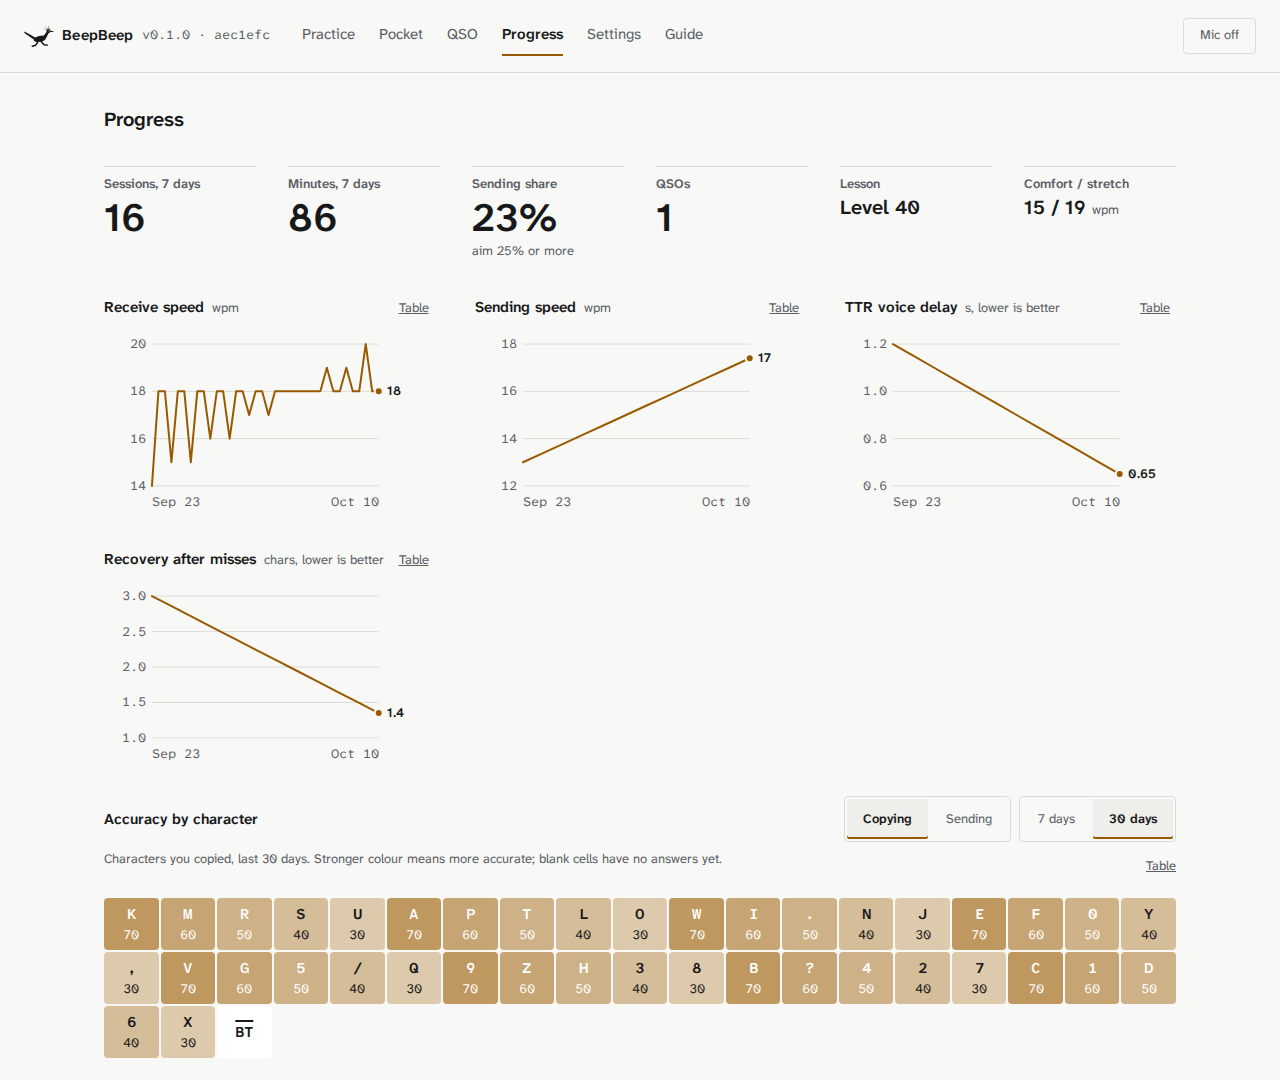
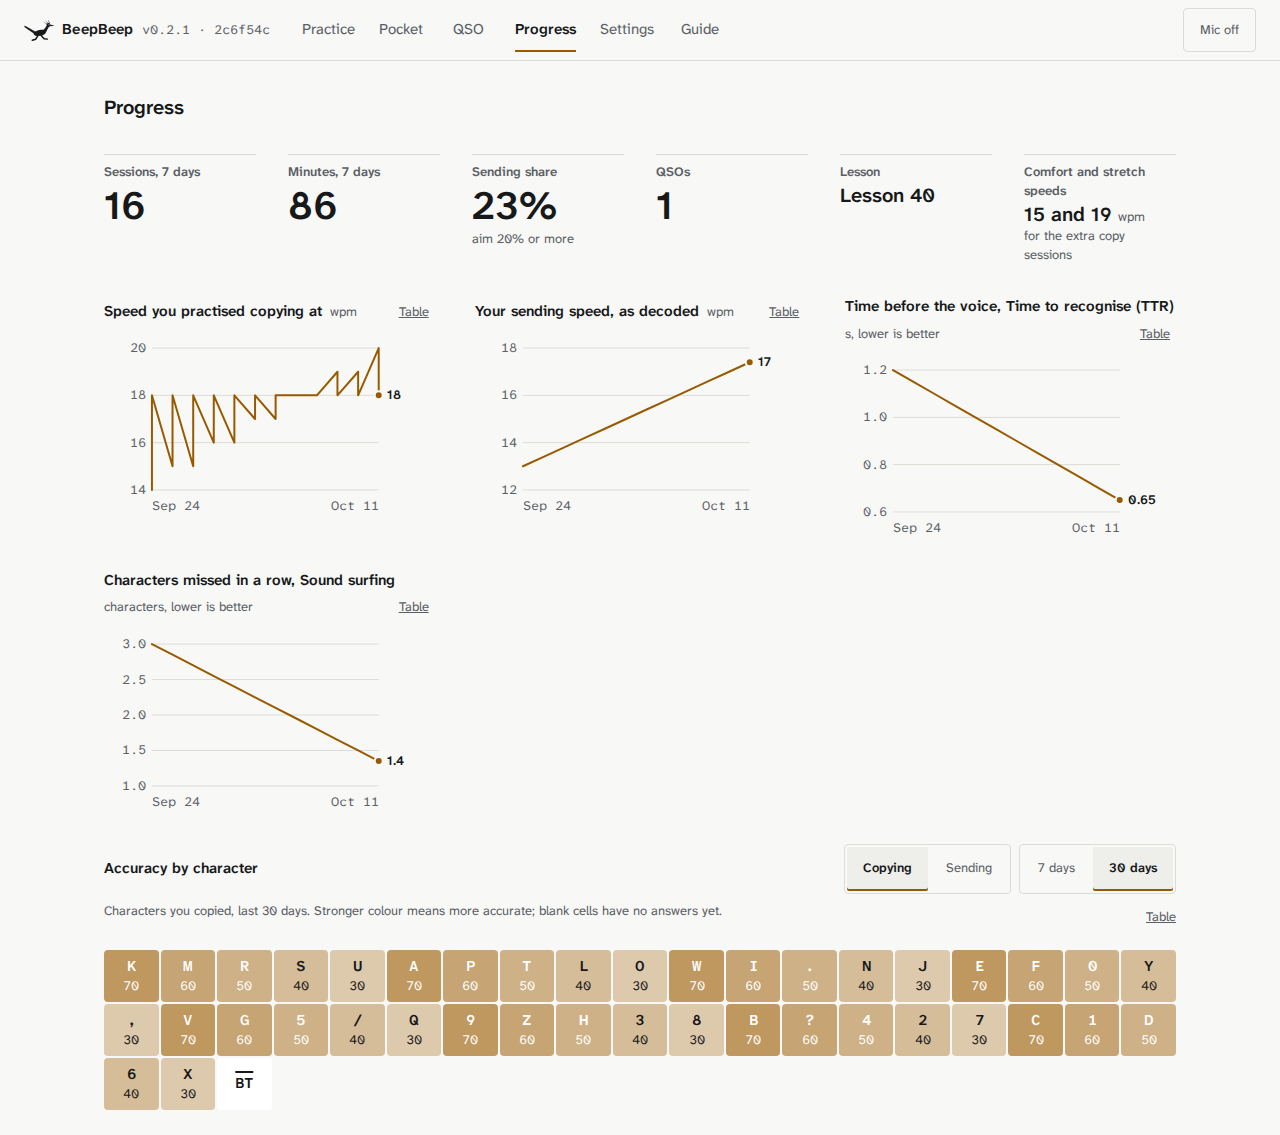
README images from the current build, with alt text and captions to match
All 14 images (7 screens, light and dark) regenerated from 0.2.1 with
e2e/readme.spec.ts, and each one checked by eye in both themes.

The spec:
- Pocket: the answer loop waited for Play again after a wrong answer,
  which stays off until Next, so the round never got its screenshot.
  It now waits for either the next question or "You typed".
- Keying on the Space bar sets each key event's timestamp to its planned
  moment, so the timing figures no longer change with machine load and
  both themes show the same numbers (they differed by 0.1 to 0.2 before).
- Live decoder: a pass of the recording that reads with a slip under
  load (seen once: K1ABC read with the 1 unrecognised) is cleared and the
  next pass read, up to 4 passes, so the image shows the CQ as keyed.
- Progress: the image runs to the end of Accuracy by character; the
  fixed 1080 px height cut off the last row.

README: alt text and captions say what each image now shows, in plain
words, with QSO, TTR and units explained.

Ran: the readme project (all 14 pass), svelte-check (0 errors, 0 warnings).

diff --git a/e2e/readme.spec.ts b/e2e/readme.spec.ts
@@ -4,7 +4,9 @@
 //   docker compose run --rm -T -e README_SHOTS=1 -e GITHUB_SHA=$(git rev-parse HEAD) e2e \
 //     npx playwright test --project=readme
 //
-// Math.random is seeded, so both themes show the same prompts and stations.
+// Math.random is seeded, so both themes show the same prompts and stations,
+// and keying on the Space bar carries its planned times, so both themes show
+// the same timing figures however late the page's timers run.
 // The project's fake microphone plays e2e/.fixtures/room-cq.wav: a hand-keyed
 // CQ at 600 Hz with a fan and someone talking (written by global-setup.ts).
 import { test, expect, type Page } from '@playwright/test';
@@ -66,9 +68,12 @@ async function key(page: Page, text: string, wpm: number, letterGap = 3) {
   await page.evaluate(async (evs) => {
     const t0 = performance.now();
     for (const [at, down] of evs) {
-      const wait = t0 + at - performance.now();
-      if (wait > 0) await new Promise((res) => setTimeout(res, wait));
-      document.body.dispatchEvent(new KeyboardEvent(down ? 'keydown' : 'keyup', { code: 'Space', key: ' ', bubbles: true }));
+      // Not before the planned moment: the app takes a timestamp from the future as "now".
+      while (performance.now() < t0 + at) await new Promise((res) => setTimeout(res, Math.max(1, t0 + at - performance.now())));
+      const e = new KeyboardEvent(down ? 'keydown' : 'keyup', { code: 'Space', key: ' ', bubbles: true });
+      // The key is timed by the event's timestamp: give it the planned moment, not the moment the timer fired.
+      Object.defineProperty(e, 'timeStamp', { value: t0 + at });
+      document.body.dispatchEvent(e);
     }
   }, events);
 }
@@ -79,13 +84,23 @@ test.describe('desktop', () => {
   test.use(DESKTOP);
   for (const theme of THEMES) {
     test(`${theme} live decoder`, async ({ page }) => {
-      test.setTimeout(90_000);
+      test.setTimeout(150_000);
       // Pinned at the tone, as after calibration.
       await open(page, 'practice/live', theme, { input: 'mic', sendWpm: 16, pinnedHz: 600 });
       await page.getByRole('button', { name: /Start/ }).click();
-      await expect(page.getByLabel('Decoded sending')).toContainText('K1ABC K', { timeout: 60_000 });
-      await page.getByRole('button', { name: 'Done sending' }).click();
-      await page.waitForTimeout(1500);
+      // The recording repeats, with 5.5 seconds of room noise between passes. When the
+      // machine is busy the audio can stutter and a pass reads with a slip: clear it
+      // and read the next pass, so the image shows the CQ as keyed.
+      const decoded = page.getByLabel('Decoded sending');
+      for (let pass = 1; ; pass++) {
+        await expect(decoded).toHaveText(/ABC K\s*$/, { timeout: 60_000 });
+        await page.getByRole('button', { name: 'Done sending' }).click();
+        await page.waitForTimeout(1500);
+        const text = ((await decoded.textContent()) ?? '').replace(/\s+/g, ' ').trim();
+        if (text === 'VVV CQ CQ DE K1ABC K') break;
+        expect(pass, `pass ${pass} read as "${text}"`).toBeLessThan(4);
+        await page.getByRole('button', { name: 'Clear' }).click();
+      }
       await shot(page, 'live-decoder', theme);
     });
 
@@ -126,7 +141,14 @@ test.describe('desktop', () => {
       await open(page, 'progress', theme, { keepSends: true, level: { koch: 'koch-40' } });
       await seed(page);
       await page.reload();
-      await page.setViewportSize({ width: 1280, height: 1080 });
+      // Down to the end of Accuracy by character, stopping short of the next heading.
+      const heat = page.locator('ul.heat');
+      await expect(heat).toBeVisible();
+      const bottom = await heat.evaluate((el) => {
+        const below = el.closest('.block')?.nextElementSibling?.getBoundingClientRect().top ?? el.getBoundingClientRect().bottom + 40;
+        return below + window.scrollY - 6;
+      });
+      await page.setViewportSize({ width: 1280, height: Math.floor(bottom) });
       await page.waitForTimeout(800);
       await shot(page, 'progress', theme);
     });
@@ -145,22 +167,27 @@ test.describe('phone', () => {
       test.setTimeout(90_000);
       await open(page, 'pocket/round/characters', theme, { level: { koch: 'koch-14' } });
       await page.getByRole('button', { name: 'Start the round' }).click();
-      // Answer until one is wrong: the reveal shows both rhythms.
+      // Answer M until it is wrong: the reveal shows both rhythms. A right answer
+      // moves on to the next question by itself; a wrong one waits for Next.
       const kb = page.getByRole('group', { name: 'Answer keyboard' });
-      for (let i = 0; i < 8; i++) {
-        await expect(page.getByRole('button', { name: 'Play again' })).toBeEnabled({ timeout: 20_000 });
+      const playAgain = page.getByRole('button', { name: 'Play again' });
+      const youTyped = page.getByText(/^You typed /);
+      for (let i = 0; i < 12; i++) {
+        await expect(playAgain).toBeEnabled({ timeout: 20_000 });
         await page.waitForTimeout(600);
         await kb.getByRole('button', { name: 'M', exact: true }).click();
-        if (await page.getByText('You typed').isVisible({ timeout: 2000 }).catch(() => false)) break;
+        await expect(playAgain).toBeDisabled();
+        await expect(youTyped.or(page.locator('button[aria-label="Play again"]:enabled'))).toBeVisible({ timeout: 10_000 });
+        if (await youTyped.isVisible()) break;
       }
-      await expect(page.getByText('You typed')).toBeVisible();
+      await expect(youTyped).toBeVisible();
       await page.waitForTimeout(600);
       await shot(page, 'phone-pocket', theme);
     });
   }
 });
 
-// The project feeds e2e/.fixtures/paris.wav in as the microphone.
+// The project feeds e2e/.fixtures/room-cq.wav in as the microphone.
 test.describe('phone, microphone', () => {
   test.use(PHONE);
   for (const theme of THEMES) {

diff --git a/README.md b/README.md
@@ -6,37 +6,37 @@ BeepBeep is a CW trainer for the browser. It decodes your keying from the microp
 
 Runs in desktop and phone browsers (Safari on iOS 16.4+, current Chrome on Android). It can be installed as an app and works offline. Progress is stored in the browser.
 
-<picture><source media="(prefers-color-scheme: dark)" srcset="docs/images/live-decoder-dark.png"><img src="docs/images/live-decoder-light.png" alt="Live decoder reading VVV CQ CQ DE K1ABC K from the microphone, with the rhythm of each mark and a timing report"></picture>
+<picture><source media="(prefers-color-scheme: dark)" srcset="docs/images/live-decoder-dark.png"><img src="docs/images/live-decoder-light.png" alt="The Live decoder has read VVV CQ CQ DE K1ABC K from the microphone. Under the text, the rhythm of the last 29 dits and dahs is drawn above the standard rhythm. On the right, one note says the timing is within range, and the measured gaps between words and between letters, dah length and speed (16 wpm) are listed with their aims."></picture>
 
-Live decoder: simulated hand keying with fan noise and speech mixed in, fed to the app as its microphone.
+Live decoder: a recording of simulated hand keying, with a fan and someone talking in the room, plays into the app as its microphone.
 
 <table>
 <tr>
-<td width="33%"><picture><source media="(prefers-color-scheme: dark)" srcset="docs/images/phone-pocket-dark.png"><img src="docs/images/phone-pocket-light.png" alt="Pocket round on a phone: the answer was I, M was typed, with both rhythms shown"></picture></td>
-<td width="33%"><picture><source media="(prefers-color-scheme: dark)" srcset="docs/images/phone-practice-dark.png"><img src="docs/images/phone-practice-light.png" alt="Practice screen on a phone: Koch lesson 14 and today's checklist, with minutes for each step"></picture></td>
-<td width="33%"><picture><source media="(prefers-color-scheme: dark)" srcset="docs/images/phone-setup-dark.png"><img src="docs/images/phone-setup-light.png" alt="Input setup on a phone: tone heard at 600 Hz, spectrum, level 28 dB over noise"></picture></td>
+<td width="33%"><picture><source media="(prefers-color-scheme: dark)" srcset="docs/images/phone-pocket-dark.png"><img src="docs/images/phone-pocket-light.png" alt="A Pocket round on a phone after a wrong answer. The character was I and M was typed. The rhythm of I is drawn above the rhythm of M, and a Next button is at the bottom."></picture></td>
+<td width="33%"><picture><source media="(prefers-color-scheme: dark)" srcset="docs/images/phone-practice-dark.png"><img src="docs/images/phone-practice-light.png" alt="The Practice screen on a phone. Koch lesson 14 adds J, 15 characters are known, and the receive speed is 20 wpm characters, 12 wpm overall. Below is the start of today's checklist, with minutes for each step: Spot the new character, the Copy drill and Time to recognise (TTR)."></picture></td>
+<td width="33%"><picture><source media="(prefers-color-scheme: dark)" srcset="docs/images/phone-setup-dark.png"><img src="docs/images/phone-setup-light.png" alt="Setup on a phone with the microphone on. The tone is heard at 605 Hz, with a button that makes the decoder listen at that pitch. The spectrum below has the tone's peak marked, and under it are how loud the input is and how far the tone is above the noise."></picture></td>
 </tr>
 <tr>
-<td>Pocket: quiz by ear on a phone.</td>
-<td>Practice: your lesson and today's checklist.</td>
-<td>Setup: the tone found in the room's spectrum.</td>
+<td>Pocket: quiz rounds by ear on a phone. After a miss you hear the right answer, then yours.</td>
+<td>Practice: your lesson, and today's checklist in the order to work through it.</td>
+<td>Setup: BeepBeep finds your tone among the other sounds in the room.</td>
 </tr>
 </table>
 
 <table>
 <tr>
-<td width="50%"><picture><source media="(prefers-color-scheme: dark)" srcset="docs/images/send-drill-dark.png"><img src="docs/images/send-drill-light.png" alt="Send drill review: SING received as sent, rhythm against standard, note that letter gaps are short at 2.2 units"></picture></td>
-<td width="50%"><picture><source media="(prefers-color-scheme: dark)" srcset="docs/images/qso-dark.png"><img src="docs/images/qso-light.png" alt="Contest QSO with a simulated station, the transcript, what was copied and a timing report"></picture></td>
+<td width="50%"><picture><source media="(prefers-color-scheme: dark)" srcset="docs/images/send-drill-dark.png"><img src="docs/images/send-drill-light.png" alt="The Send drill after the word SING was sent with the Space bar as a straight key. It was received as SING. The rhythm sent is drawn above the standard rhythm. The one note says the gaps between letters are short: 2.2 units, aim 3 (a unit is one dit long)."></picture></td>
+<td width="50%"><picture><source media="(prefers-color-scheme: dark)" srcset="docs/images/qso-dark.png"><img src="docs/images/qso-light.png" alt="A contest QSO (a contact between two stations) with the simulated station W4N, after it ended. You copied its serial number, 157, and it copied your callsign, serial number and report. Below are one note on your timing, the measured gaps and speed, and the whole exchange line by line."></picture></td>
 </tr>
 <tr>
-<td>Send drill: what was received, your rhythm against standard, one note on timing.</td>
-<td>QSO simulator: a contest exchange with a simulated station.</td>
+<td>Send drill: what BeepBeep received, and your rhythm drawn above the standard one. One note names the most important thing to change in your timing.</td>
+<td>QSO simulator: you make a contest contact with a simulated station, then see what each side copied.</td>
 </tr>
 </table>
 
-<picture><source media="(prefers-color-scheme: dark)" srcset="docs/images/progress-dark.png"><img src="docs/images/progress-light.png" alt="Progress: sessions, speeds over time, TTR delay, recovery after misses and accuracy by character"></picture>
+<picture><source media="(prefers-color-scheme: dark)" srcset="docs/images/progress-dark.png"><img src="docs/images/progress-light.png" alt="Progress after a few weeks of practice. Along the top are sessions and minutes in the last 7 days, the share of time spent sending, QSOs, the lesson and the comfort and stretch speeds. Charts show the speed you practised copying at, your sending speed as decoded, time to recognise (TTR) and characters missed in a row in Sound surfing. Below, each character known at lesson 40 is shaded by how accurately you copied it."></picture>
 
-Progress: speeds over time and accuracy by character.
+Progress: your speeds over time, and how accurately you copy each character.
 
 ## Features
 
